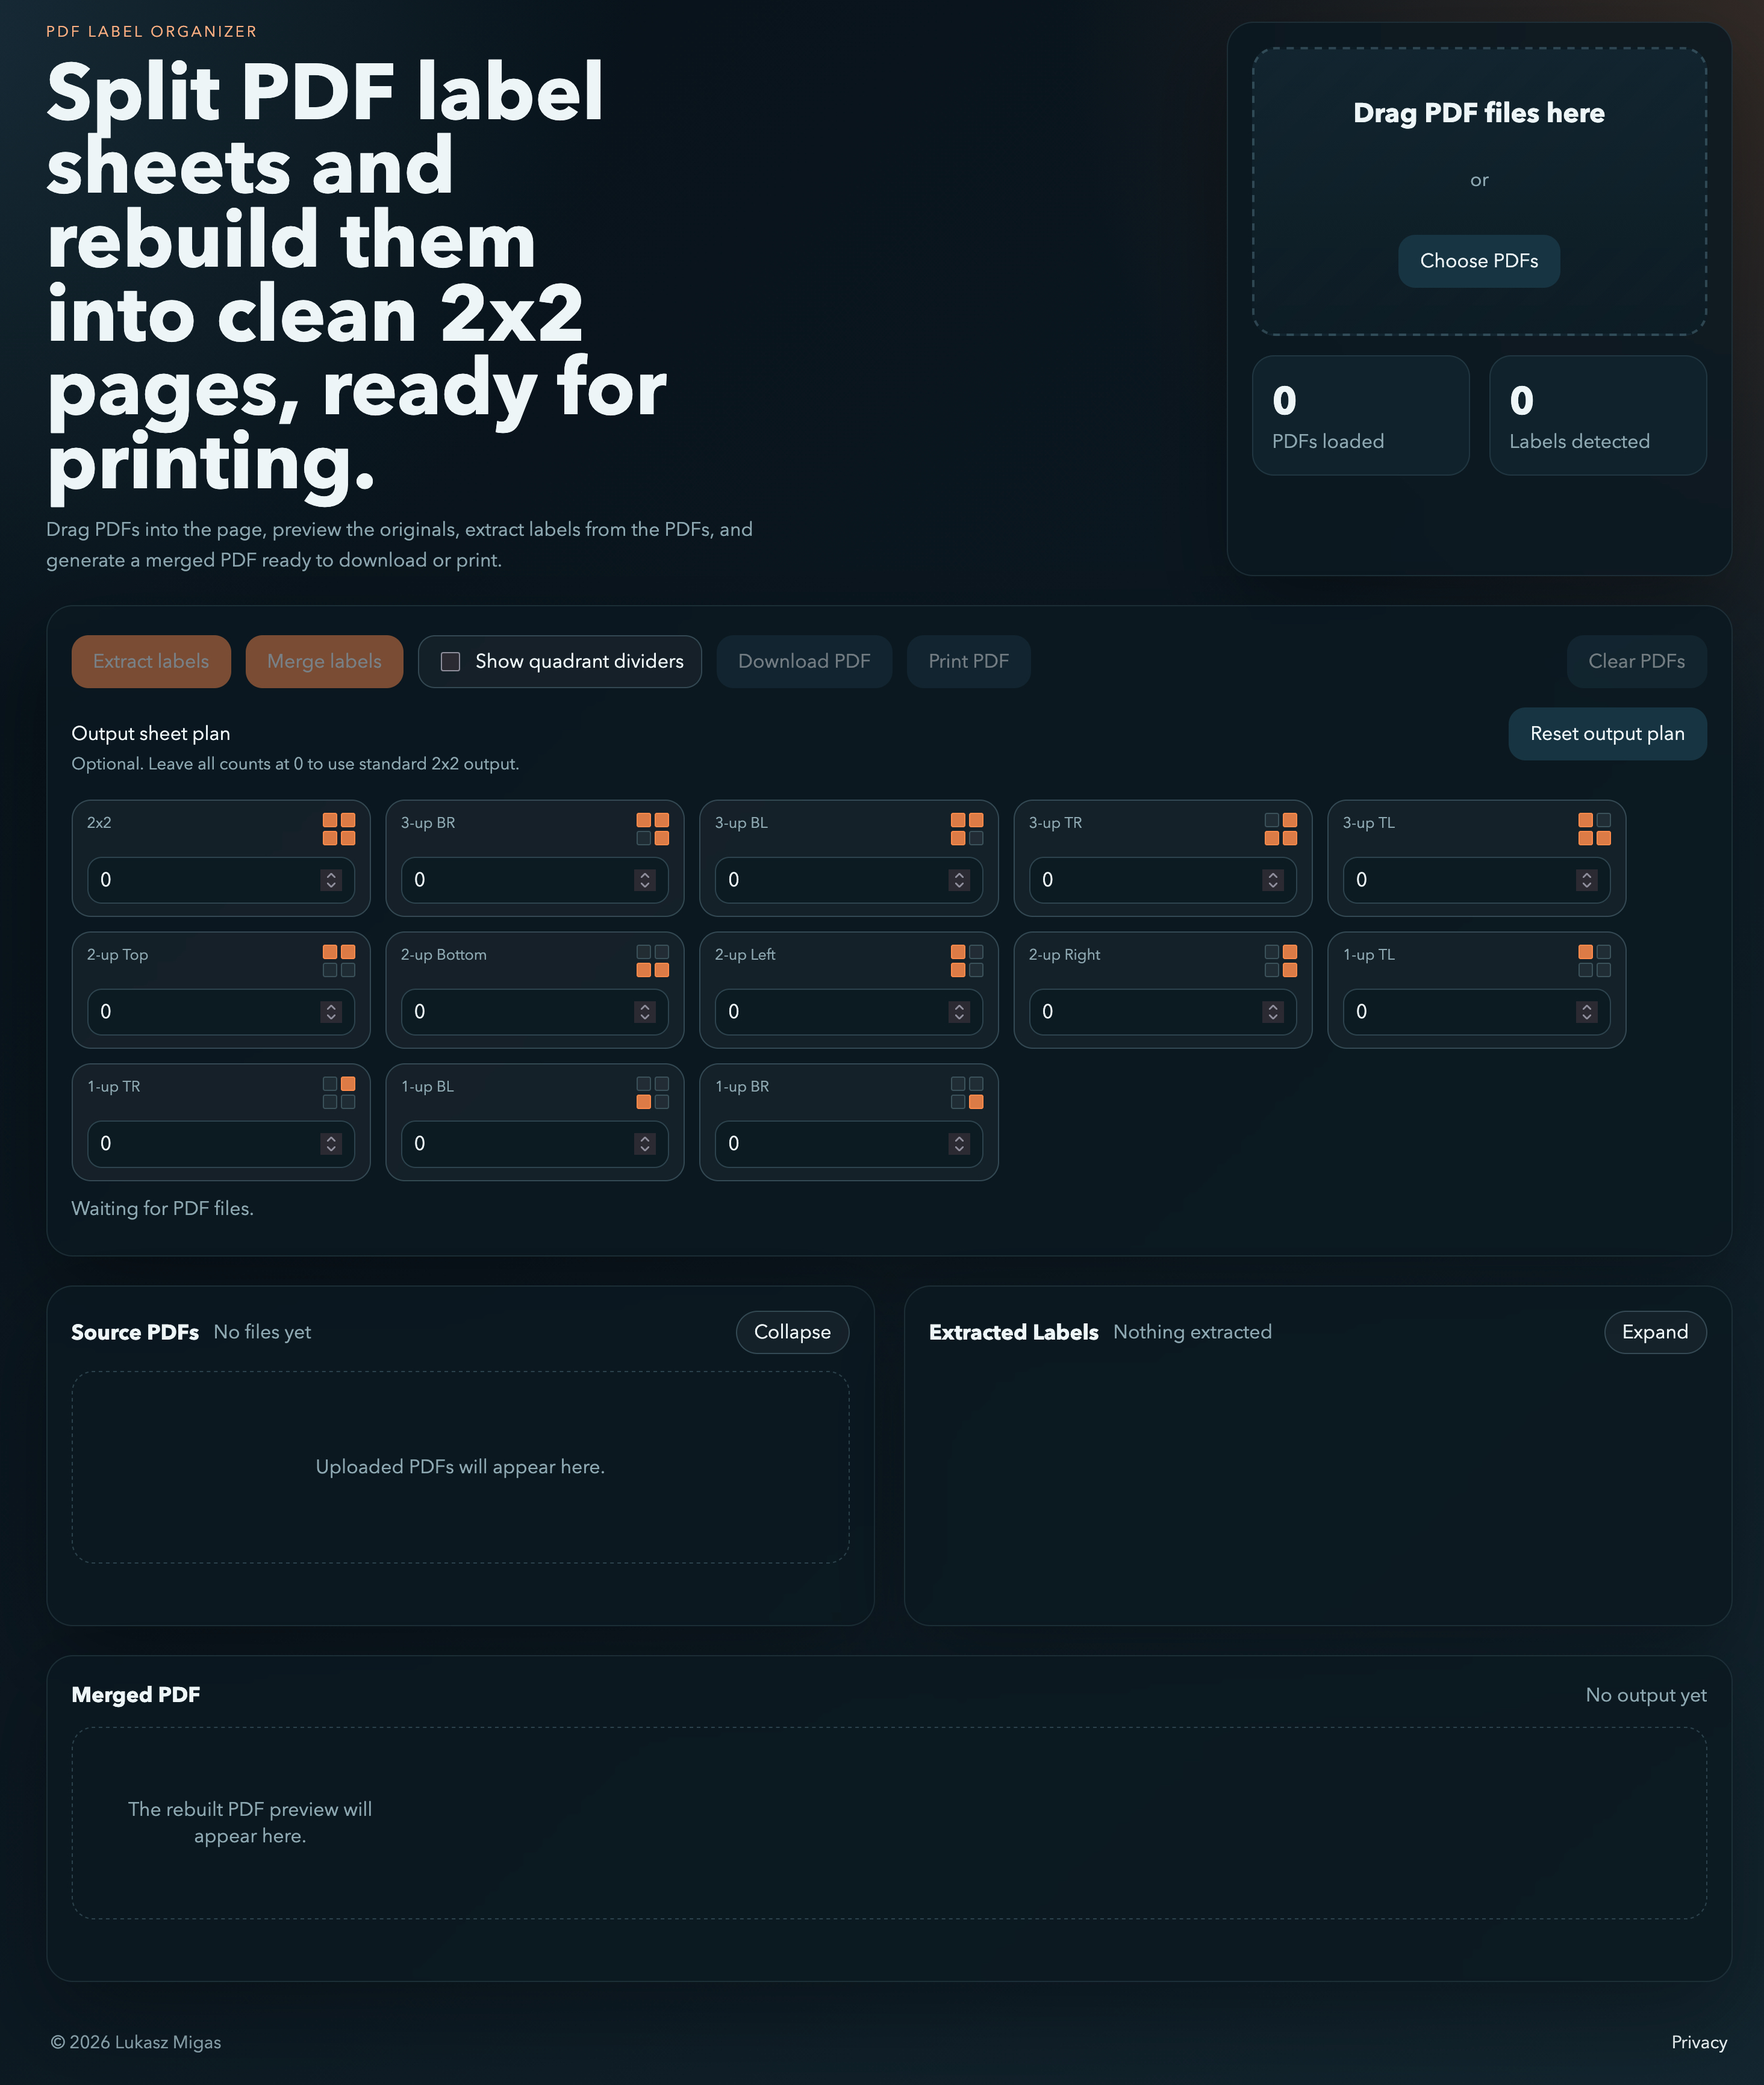
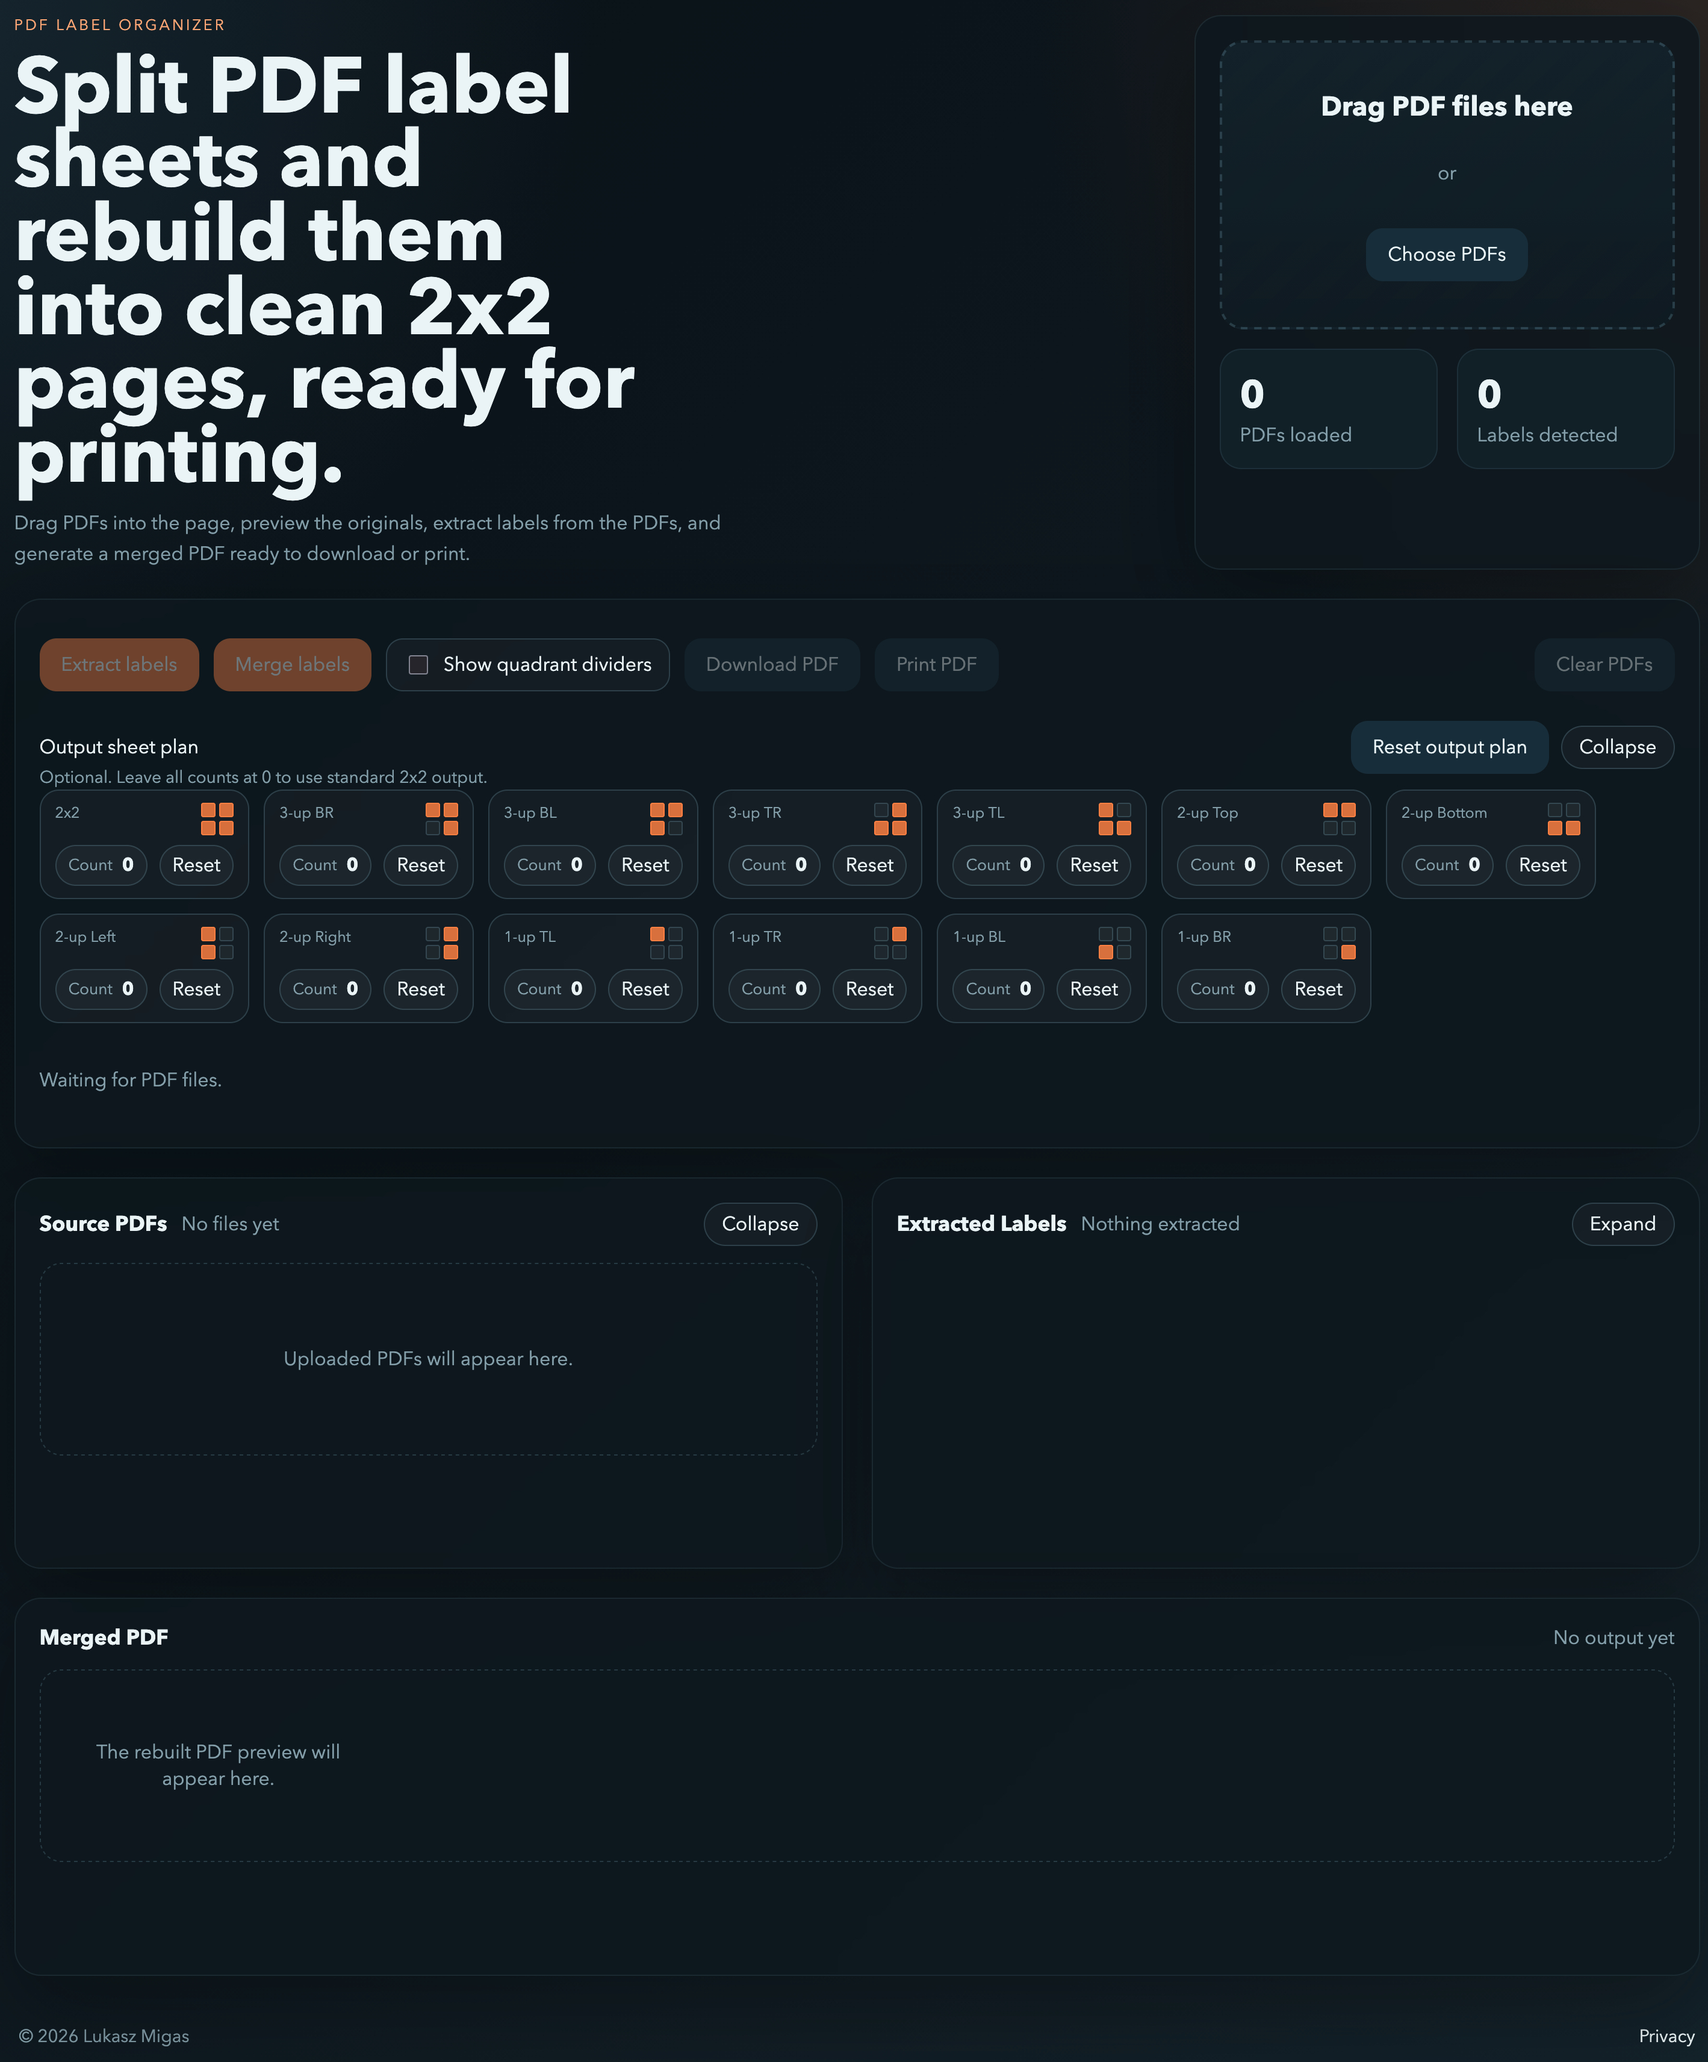
Improve output sheet plan

diff --git a/src/modules/ui.js b/src/modules/ui.js
@@ -182,29 +182,43 @@ export function renderOutputPlanner(dom, patterns) {
   dom.outputPlanner.innerHTML = patterns
     .map(
       (pattern) => `
-        <label class="pattern-card">
-          <div class="pattern-card-top">
-            <span class="pattern-name">${escapeHtml(pattern.name)}</span>
-            <span class="pattern-grid" aria-hidden="true">
-              ${[0, 1, 2, 3]
-                .map(
-                  (slot) => `
-                    <span class="pattern-cell ${pattern.slots.includes(slot) ? "is-filled" : ""}"></span>
-                  `,
-                )
-                .join("")}
+        <article class="pattern-card" data-pattern-card="${escapeHtml(pattern.id)}">
+          <button
+            class="pattern-picker"
+            type="button"
+            data-pattern-increment="${escapeHtml(pattern.id)}"
+            aria-label="Add one ${escapeHtml(pattern.name)} output sheet"
+            title="Add one ${escapeHtml(pattern.name)} sheet"
+          >
+            <span class="pattern-card-top">
+              <span class="pattern-name">${escapeHtml(pattern.name)}</span>
+              <span class="pattern-grid" aria-hidden="true">
+                ${[0, 1, 2, 3]
+                  .map(
+                    (slot) => `
+                      <span class="pattern-cell ${pattern.slots.includes(slot) ? "is-filled" : ""}"></span>
+                    `,
+                  )
+                  .join("")}
+              </span>
             </span>
+          </button>
+          <div class="pattern-card-footer">
+            <span class="pattern-count-pill">
+              Count
+              <strong data-pattern-count="${escapeHtml(pattern.id)}">0</strong>
+            </span>
+            <button
+              class="pattern-reset"
+              type="button"
+              data-pattern-reset="${escapeHtml(pattern.id)}"
+              aria-label="Reset ${escapeHtml(pattern.name)} count to zero"
+              title="Reset to zero"
+            >
+              Reset
+            </button>
           </div>
-          <input
-            class="pattern-count"
-            type="number"
-            min="0"
-            step="1"
-            value="0"
-            data-pattern-id="${escapeHtml(pattern.id)}"
-            aria-label="${escapeHtml(pattern.name)} page count"
-          />
-        </label>
+        </article>
       `,
     )
     .join("");
@@ -312,6 +326,26 @@ export function setOutputPlanCollapsed(dom, collapsed) {
   dom.outputPlanPanel.classList.toggle("is-collapsed", collapsed);
   dom.toggleOutputPlanButton.textContent = collapsed ? "Expand" : "Collapse";
   dom.toggleOutputPlanButton.setAttribute("aria-expanded", String(!collapsed));
+}
+
+export function getOutputPlanCount(dom, patternId) {
+  const node = dom.outputPlanner.querySelector(`[data-pattern-count="${patternId}"]`);
+  return Number.parseInt(node?.textContent ?? "0", 10) || 0;
+}
+
+export function setOutputPlanCount(dom, patternId, count) {
+  const node = dom.outputPlanner.querySelector(`[data-pattern-count="${patternId}"]`);
+  if (!node) {
+    return;
+  }
+
+  node.textContent = String(Math.max(0, count));
+}
+
+export function resetOutputPlanCounts(dom) {
+  dom.outputPlanner.querySelectorAll("[data-pattern-count]").forEach((node) => {
+    node.textContent = "0";
+  });
 }
 
 export function openPreviewModal(dom, { src, title, caption }) {

diff --git a/src/modules/app.js b/src/modules/app.js
@@ -10,9 +10,12 @@ import {
   renderLabels,
   renderMergedPreview,
   renderOutputPlanner,
+  getOutputPlanCount,
+  resetOutputPlanCounts,
   renderSourceFiles,
   setActionState,
   setLabelsCollapsed,
+  setOutputPlanCount,
   setOutputPlanCollapsed,
   setProgress,
   setProgressVisibility,
@@ -42,6 +45,7 @@ export function createApp() {
   dom.extractButton.addEventListener("click", () => extractLabels());
   dom.mergeButton.addEventListener("click", () => mergeLabels());
   dom.resetOutputPlanButton.addEventListener("click", () => resetOutputPlan());
+  dom.outputPlanner.addEventListener("click", (event) => handleOutputPlanClick(event));
   dom.toggleOutputPlanButton.addEventListener("click", () => {
     state.outputPlanCollapsed = !state.outputPlanCollapsed;
     setOutputPlanCollapsed(dom, state.outputPlanCollapsed);
@@ -439,6 +443,7 @@ export function createApp() {
     setSourceCollapsed(dom, state.sourceCollapsed);
     renderLabels(dom, state.labels);
     await resetMergedOutput();
+    resetOutputPlanCounts(dom);
     setLabelsCollapsed(dom, true);
     setProgressVisibility(dom, false);
     setProgress(dom, { phase: "Idle", value: 0, total: 0, label: "Idle" });
@@ -448,16 +453,14 @@ export function createApp() {
   }
 
   function getRequestedSlotPlans() {
-    const inputs = Array.from(dom.outputPlanner.querySelectorAll("[data-pattern-id]"));
     const plans = [];
 
-    for (const input of inputs) {
-      const count = Number.parseInt(input.value, 10);
+    for (const pattern of outputPatterns) {
+      const count = getOutputPlanCount(dom, pattern.id);
       if (!Number.isFinite(count) || count <= 0) {
         continue;
       }
 
-      const pattern = getOutputPatternById(input.dataset.patternId);
       for (let index = 0; index < count; index += 1) {
         plans.push(pattern.slots);
       }
@@ -467,10 +470,26 @@ export function createApp() {
   }
 
   function resetOutputPlan() {
-    dom.outputPlanner.querySelectorAll("[data-pattern-id]").forEach((input) => {
-      input.value = "0";
-    });
+    resetOutputPlanCounts(dom);
     setStatus(dom, "Output sheet plan reset. Standard 2x2 output will be used unless you set counts again.");
+  }
+
+  function handleOutputPlanClick(event) {
+    const incrementButton = event.target.closest("[data-pattern-increment]");
+    if (incrementButton) {
+      const patternId = incrementButton.dataset.patternIncrement;
+      const nextCount = getOutputPlanCount(dom, patternId) + 1;
+      setOutputPlanCount(dom, patternId, nextCount);
+      setStatus(dom, `${getOutputPatternById(patternId).name} set to ${nextCount}.`);
+      return;
+    }
+
+    const resetButton = event.target.closest("[data-pattern-reset]");
+    if (resetButton) {
+      const patternId = resetButton.dataset.patternReset;
+      setOutputPlanCount(dom, patternId, 0);
+      setStatus(dom, `${getOutputPatternById(patternId).name} reset to 0.`);
+    }
   }
 
   function getMergeLayout() {

diff --git a/styles.css b/styles.css
@@ -266,6 +266,22 @@ input {
   background: rgba(255, 255, 255, 0.04);
 }
 
+.pattern-picker {
+  display: grid;
+  gap: 8px;
+  padding: 0;
+  border: 0;
+  background: transparent;
+  color: inherit;
+  text-align: left;
+  cursor: pointer;
+}
+
+.pattern-picker:hover .pattern-grid,
+.pattern-picker:hover .pattern-name {
+  opacity: 0.92;
+}
+
 .pattern-card-top {
   display: flex;
   justify-content: space-between;
@@ -276,6 +292,31 @@ input {
 .pattern-name {
   font-size: 0.78rem;
   color: var(--muted);
+}
+
+.pattern-card-footer {
+  display: flex;
+  justify-content: space-between;
+  gap: 10px;
+  align-items: center;
+}
+
+.pattern-count-pill {
+  display: inline-flex;
+  align-items: center;
+  gap: 8px;
+  min-height: 34px;
+  padding: 0 10px;
+  border-radius: 999px;
+  border: 1px solid var(--line-strong);
+  background: rgba(255, 255, 255, 0.04);
+  color: var(--muted);
+  font-size: 0.82rem;
+}
+
+.pattern-count-pill strong {
+  color: var(--text);
+  font-size: 0.95rem;
 }
 
 .pattern-grid {
@@ -296,14 +337,18 @@ input {
   border-color: rgba(255, 140, 66, 0.95);
 }
 
-.pattern-count {
-  width: 100%;
-  min-height: 38px;
+.pattern-reset {
+  min-height: 34px;
   padding: 0 10px;
   border: 1px solid var(--line-strong);
-  border-radius: 12px;
-  background: #0c1a22;
+  border-radius: 999px;
+  background: rgba(255, 255, 255, 0.04);
   color: var(--text);
+  cursor: pointer;
+}
+
+.pattern-reset:hover {
+  background: rgba(255, 255, 255, 0.08);
 }
 
 .button {
